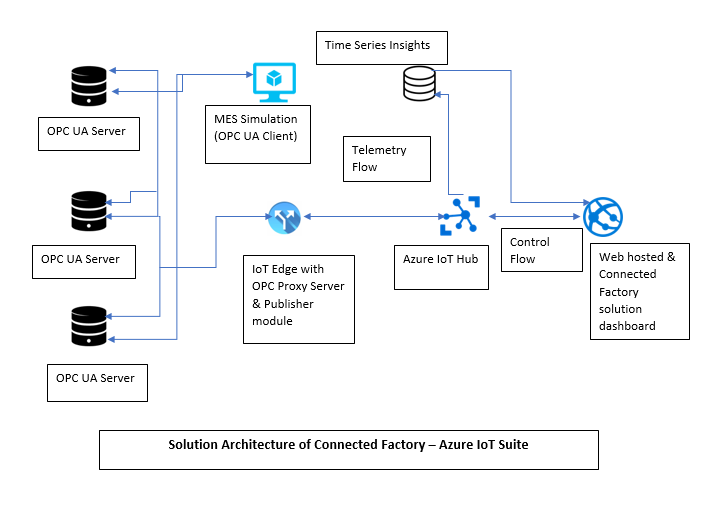
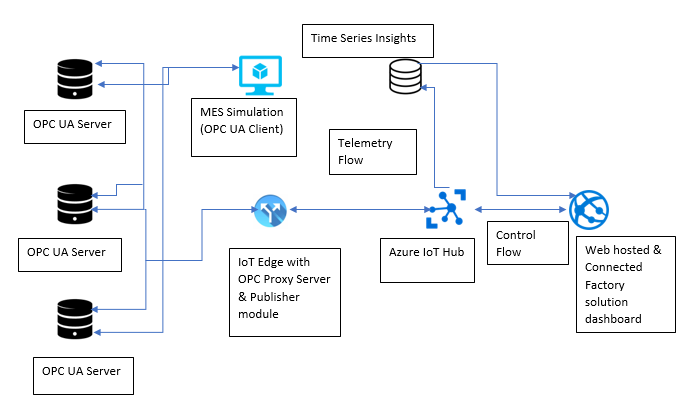
adjusted image by cropping

diff --git a/README.md b/README.md
@@ -2,13 +2,16 @@
 
 **3 Day Proctor assisted Hands-on LAB**
 
-![](images/connfac.png)
-
 ## Welcome !
 This Cloud Workshop is very hands-on intensive. And wewill be doing it a bit different from most labs.  
 We will be getting our hands dirty from the start. We will make pauses when appropriate to discuss what we have done, but also the whys and hows.  
 
 Please follow the instructions step-by-step. We have noticed that 9 out of 10 times when things don't work is because we have accidentally missed one or more steps. For that odd cases, we might even hand out a cool sticker for those who help us correct/improve the instructions.
+
+At the end of these 3 days we will be prod=udy showing a fully functioning Connected Factory solution, like the one below, and even better!
+
+![](images/connfac.png)
+
 
 ## Prerequisites
 
